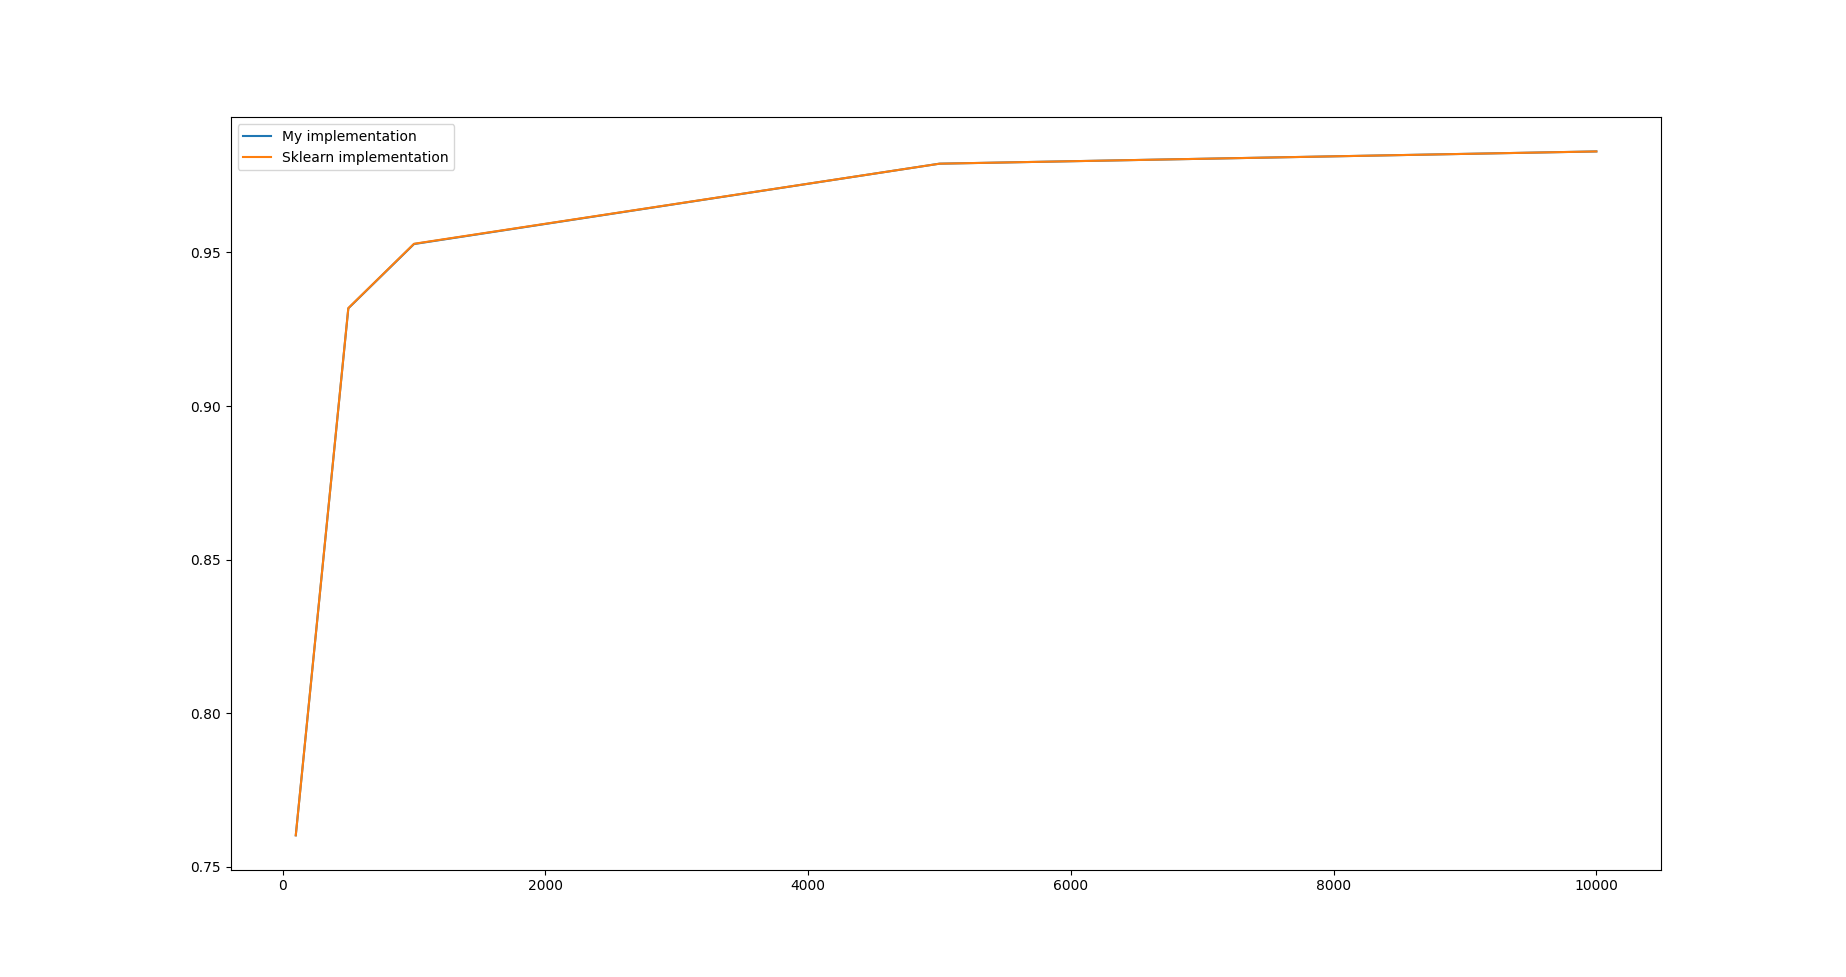
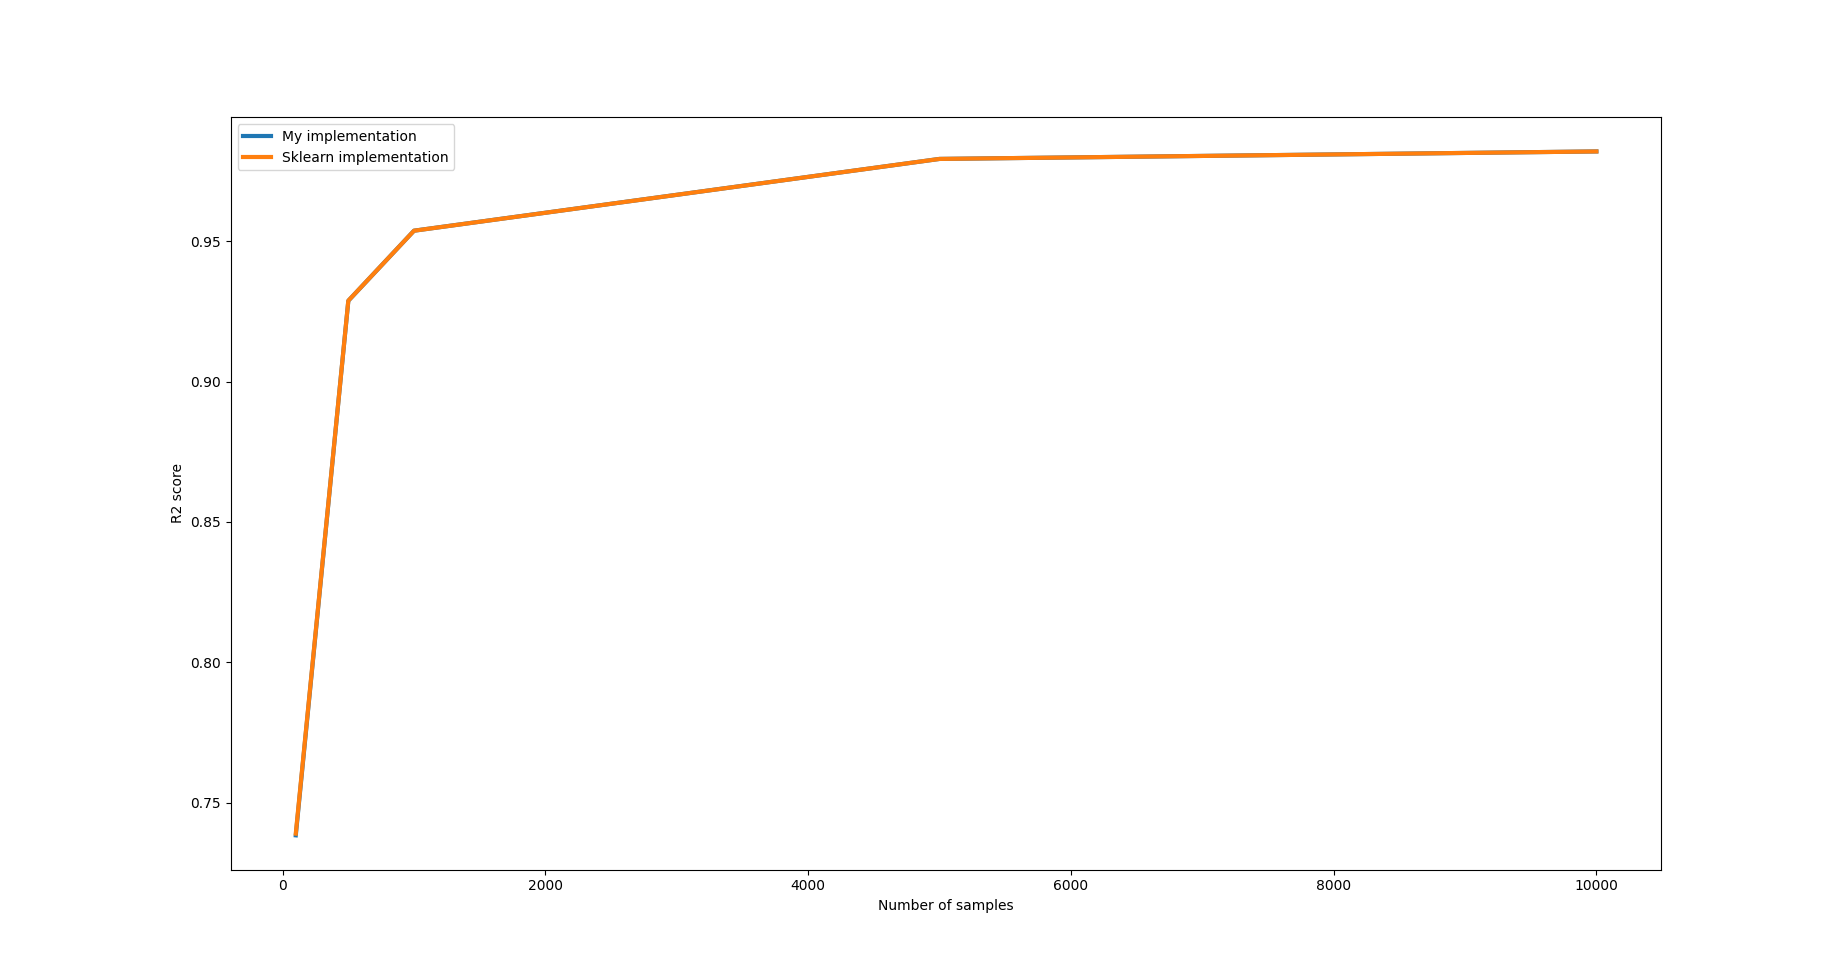
added test for different loss functions

diff --git a/Code/main.py b/Code/main.py
@@ -94,6 +94,37 @@ def interactionTest():
     print("Score 2: ", np.mean(score2))
     #print("Score 3: ", np.mean(score3))
     print("Score 4: ", np.mean(score4))
+    
+def Test1():
+    """
+    To test the hypothesis that the Gradient Boosting algorithm performs with higher max_depth
+    fixing all the other parameters.
+    """
+    
+    sim = 30
+    score1, score2, score3 = [], [], []
+    
+    for _ in tqdm.tqdm(range(sim)):
+        #X, Y = ms.simulatedDataInteraction(n = 1000, interaction = 4, noise = 5)
+        X, Y = datasets.make_regression(n_samples = 1000, n_features=10, n_informative = 6, noise=5)
+        x_train, x_test, y_train, y_test = train_test_split(X, Y, test_size=0.2)
+        
+        gb1 = GradientBoostingRegressor(max_depth=1)
+        gb2 = GradientBoostingRegressor(max_depth=2)
+        gb3 = GradientBoostingRegressor(max_depth=3)
+        
+        gb1.fit(x_train, y_train)
+        gb2.fit(x_train, y_train)
+        gb3.fit(x_train, y_train)
+        
+        score1.append(gb1.score(x_test, y_test))
+        score2.append(gb2.score(x_test, y_test))
+        score3.append(gb3.score(x_test, y_test))
+        
+    print("Score 1: ", np.mean(score1))
+    print("Score 2: ", np.mean(score2))
+    print("Score 3: ", np.mean(score3))
+        
               
 def compareGB():
     """
@@ -134,15 +165,19 @@ def compareGB():
         time_my.append(np.mean(tmp_t_my))
         time_sk.append(np.mean(tmp_t_sk))
         
-    plt.plot(n_samples, score_my, label="My implementation")
-    plt.plot(n_samples, score_sk, label="Sklearn implementation")
+    plt.plot(n_samples, score_my, label="My implementation", linewidth=3)
+    plt.plot(n_samples, score_sk, label="Sklearn implementation", linewidth=3)
+    plt.ylabel("R2 score")
+    plt.xlabel("Number of samples")
     plt.legend()
     plt.show()
     
-    plt.plot(n_samples, time_my, label="My implementation")
-    plt.plot(n_samples, time_sk, label="Sklearn implementation")
+    plt.plot(n_samples, time_my, label="My implementation", linewidth=3)
+    plt.plot(n_samples, time_sk, label="Sklearn implementation", linewidth=3)
+    plt.ylabel("Time in seconds")
+    plt.xlabel("Number of samples")
     plt.legend()
-    plt.show()
+    plt.show() 
     
 def learningVisualization():
     """
@@ -231,9 +266,47 @@ def learningVisualization2():
             
     plt.show()
     
-interactionTest()
+
+def compareLoss():
+    """
+    Function to compare the difference between the different loss functions
+    when dealing with outliers.
+    """
+    size = 500
+    x, y, Y_true = ms.simulatedData3(n = size, seed = None, noise=5)
+    fig, ax = plt.subplots(1, 1, figsize=(10, 5))
+    ax.plot(x, Y_true, label="True function")
+    ax.plot(x, y, '.', label="Training Data", alpha=0.5)
+    ax.plot([0, -7.5, 7.5], [40, 20, 20], "o", color = "r", label="Outlier")
+    ax.legend()
+    
+    X = np.append(x, [0, -7.5, 7.5])
+    Y = np.append(y, [40, 20, 20])
+    
+    values = np.linspace(-10, 10, 1000)
+    
+    X = X.reshape((size + 3, 1))
+    Y = Y.reshape((size + 3, 1))
+    values = values.reshape((1000, 1))
+    
+    #plt.pause(5)
+    for i in tqdm.tqdm(range(1, 200)):
+        np.random.seed(1)
         
+        #change the loss function here to see the effect
+        mygb = GradientBoostingRegressor(n_estimators=i, learning_rate=0.1, max_depth=3, loss='huber', verbose = False)
+        mygb.fit(X, Y)
         
+        line = ax.plot(values, mygb.predict(values), color='r', label="Prediction")
+        plt.pause(0.01)
+        for l in line:
+            l.remove()
+    
+    line = ax.plot(values, mygb.predict(values), color='r', label="Prediction")
+    plt.show()
+    
+    
+compareLoss()   
     
     
 

diff --git a/Code/misc.py b/Code/misc.py
@@ -19,7 +19,21 @@ def simulatedData2(n = 100, seed = None, noise = 1):
     
     return X, Y, Y_true
     
-
+def simulatedData3(n = 100, seed = None, noise = 1):
+    """
+    Simulated data that follow parabolic function
+    adding an outlier.
+    """
+    
+    X = np.random.uniform(-10, 10, n)
+    X = np.sort(X)
+    Y = [pow(x, 2) + noise * np.random.normal(0, 1) for x in X]
+    Y_true = [pow(x, 2) for x in X]
+    
+    return X, Y, Y_true
+    
+    
+    
 def simulatedDataInteraction(n = 1000, seed = None, noise = 1, interaction = 2):
     """
     This function generates a simulated dataset with interaction terms for regression.

diff --git a/Code/GradientBoosting.py b/Code/GradientBoosting.py
@@ -75,6 +75,10 @@ class GradientBoostingRegressor(BaseEstimator, RegressorMixin):
             return residuals
         else:
             raise ValueError("Invalid loss function. Choose 'ls', 'lad', or 'huber'.")
+        
+import numpy as np
+from sklearn.tree import DecisionTreeRegressor
+from scipy.optimize import minimize
 
 
 class GradientBoostingClassifier(BaseEstimator, ClassifierMixin):
